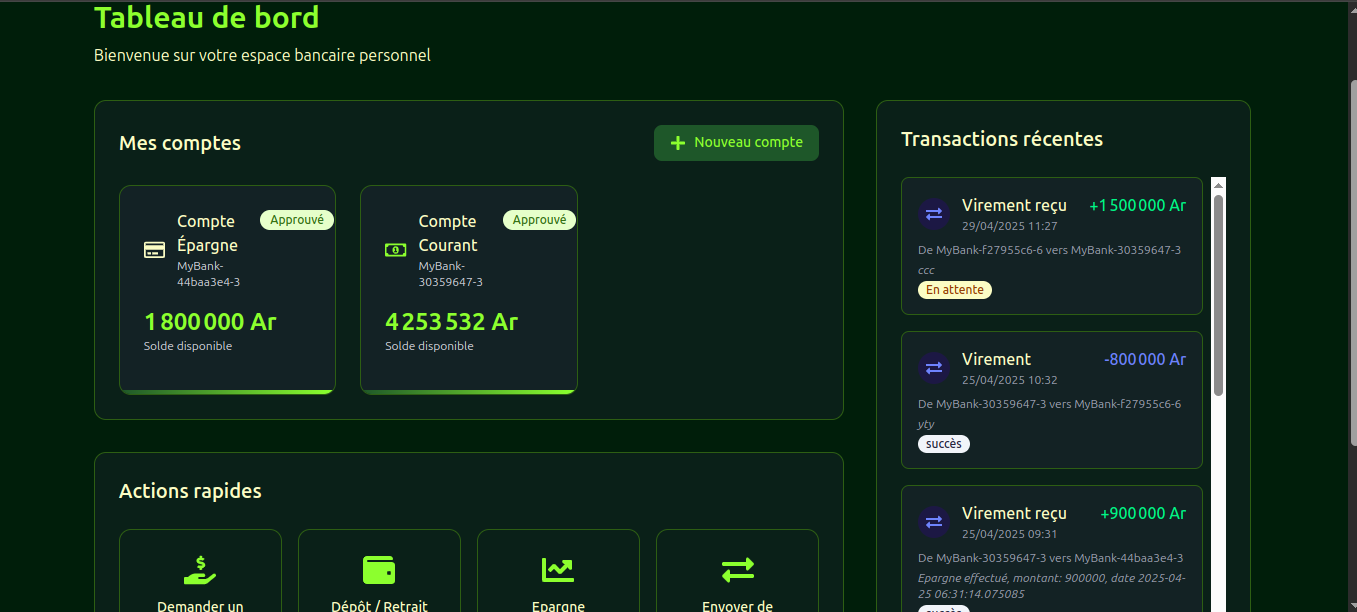
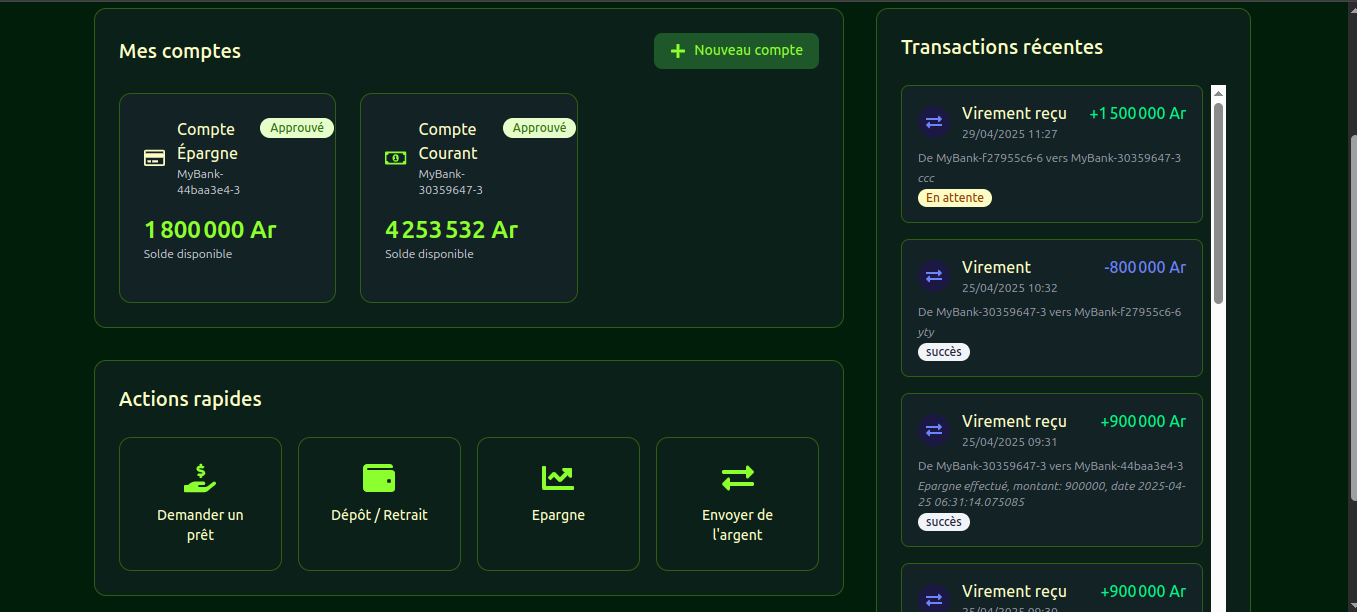
little update

diff --git a/frontend/src/pages/Dashboard.tsx b/frontend/src/pages/Dashboard.tsx
@@ -358,7 +358,7 @@ export default function Dashboard() {
                   {accounts.map((account) => (
                     <div
                       key={account.id}
-                      className="relative overflow-hidden rounded-xl border border-lime-900 bg-gray-800 bg-opacity-40 p-6 shadow-sm transition hover:shadow-md"
+                      className="relative overflow-hidden rounded-xl border border-lime-900 bg-gray-800 bg-opacity-40 p-6"
                     >
                       <div className="mb-4 flex items-start justify-between">
                         <div className="flex items-center">
@@ -394,7 +394,6 @@ export default function Dashboard() {
                         </p>
                         <p className="text-xs text-gray-300">Solde disponible</p>
                       </div>
-                      <div className="absolute bottom-0 left-0 h-1 w-full bg-gradient-to-r from-[#294e28] to-lime-400"></div>
                     </div>
                   ))}
                 </div>
